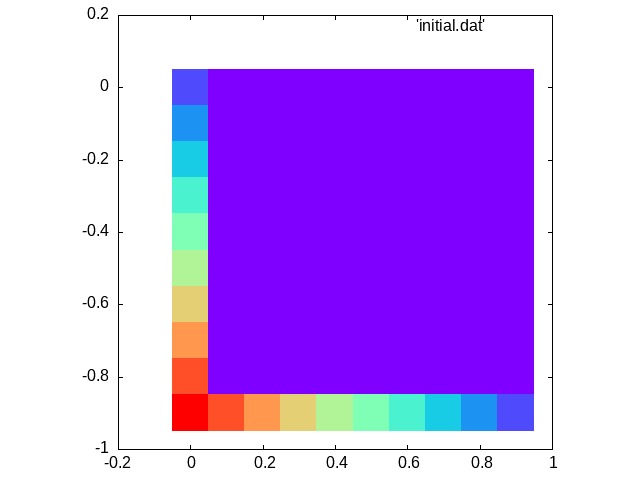
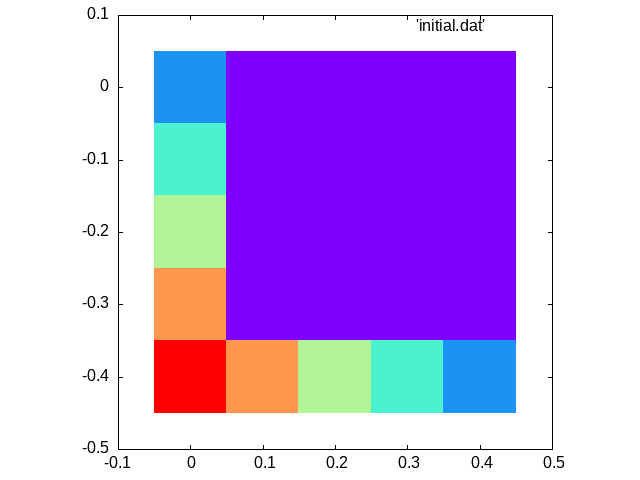
Rows transfer working

diff --git a/jacobi_exercise/mpi_code/src/main.c b/jacobi_exercise/mpi_code/src/main.c
@@ -12,8 +12,11 @@
 #define MASTER 0
 
 /*** function declarations ***/
+//Send and receive ghosts layers
+void ghost_layer_transfer(double * matrix, int irank, int n_proc_tot, int * dim_1_local, int dim_2_local);
+
 // evolve Jacobi
-void evolve( double * matrix, double *matrix_new, size_t dimension );
+void evolve( double * matrix, double *matrix_new, size_t dimension, int irank );
 
 // return the elapsed time
 double seconds( void );
@@ -23,7 +26,7 @@ double seconds( void );
 int main(int argc, char* argv[]){
 
   // timing variables
-  double t_start, t_end, increment;
+  double t_start, t_end;
 
   // indexes for loops
   size_t it;
@@ -145,7 +148,7 @@ t_end = seconds();
   print_matrix_distributed(matrix, irank, dim_1_local, dim_2_local,
     n_proc_tot, COMM, true);
 #endif
-  print_matrix_distributed_gnuplot(matrix, irank, dim_1_local, dim_2_local,
+  print_matrix_distributed_file(matrix, irank, dim_1_local, dim_2_local,
     displacement, n_proc_tot, COMM, "initial.dat");
 
   if (irank==MASTER) {
@@ -157,8 +160,8 @@ t_end = seconds();
   // start algorithm
   t_start = seconds();
   for( it = 0; it < iterations; ++it ){
-
-    evolve_mpi( matrix, matrix_new, dimension);
+    ghost_layer_transfer(matrix, irank, n_proc_tot, dim_1_local, dim_2_local);
+    evolve_mpi(matrix, matrix_new, dimension, irank);
 
     // swap the pointers
     tmp_matrix = matrix;
@@ -173,20 +176,71 @@ t_end = seconds();
     printf_reset();
   }
 
-  print_matrix_distributed_gnuplot(matrix, irank, dim_1_local, dim_2_local,
+#ifdef DEBUG
+  MPI_Barrier(COMM);
+  if (irank==MASTER) {
+    printf_yellow();
+    printf("\n");
+    printf("-------Evolution executed-------\n");
+    printf_reset();
+  }
+  print_matrix_distributed(matrix, irank, dim_1_local, dim_2_local,
+    n_proc_tot, COMM, true);
+#endif
+  print_matrix_distributed_file(matrix, irank, dim_1_local, dim_2_local,
     displacement, n_proc_tot, COMM, "solution.dat");
 
-  free( matrix );
-  free( matrix_new );
+  free(matrix);
+  free(matrix_new);
+
+  free(n_rows_local);
+  free(dim_1_local);
+  free(displacement);
 
   MPI_Finalize();
 
   return 0;
 }
 
-
-void evolve_mpi( double * matrix, double *matrix_new, size_t dimension ){
+void ghost_layer_transfer(double * matrix, int irank, int n_proc_tot, int * dim_1_local, int dim_2_local) {
   
+  int next = irank+1;
+  int previous = irank-1;
+
+  if (irank==0) {
+    /*Send the last actual row to next and receive
+    from next in its bottom ghost layer*/
+    MPI_Sendrecv(matrix+(dim_1_local[irank]-2)*dim_2_local, dim_2_local,
+     MPI_DOUBLE, next, 0,
+     matrix+(dim_1_local[irank]-1)*dim_2_local, dim_2_local,
+     MPI_DOUBLE, next, 0, COMM, MPI_STATUS_IGNORE);
+  } else if (irank==n_proc_tot-1) {
+    /*Send the first actual row to previous and receive
+    from previous in its top ghost layer*/
+    MPI_Sendrecv(matrix+dim_2_local, dim_2_local,
+     MPI_DOUBLE, previous, 0,
+     matrix, dim_2_local,
+     MPI_DOUBLE, previous, 0, COMM, MPI_STATUS_IGNORE);
+  } else {
+    /*Send the first actual row to previous and receive
+    from previous in its top ghost layer*/
+    MPI_Sendrecv(matrix+dim_2_local, dim_2_local,
+     MPI_DOUBLE, previous, 0,
+     matrix, dim_2_local,
+     MPI_DOUBLE, previous, 0, COMM, MPI_STATUS_IGNORE);
+    /*Send the last actual row to next and receive
+    from next in its bottom ghost layer*/
+    MPI_Sendrecv(matrix+(dim_1_local[irank]-2)*dim_2_local, dim_2_local,
+     MPI_DOUBLE, next, 0,
+     matrix+(dim_1_local[irank]-1)*dim_2_local, dim_2_local,
+     MPI_DOUBLE, next, 0, COMM, MPI_STATUS_IGNORE);
+  }
+
+}
+
+
+void evolve_mpi( double * matrix, double *matrix_new, size_t dimension, int irank){
+
   size_t i , j;
 
   //This will be a row dominant program.

diff --git a/jacobi_exercise/mpi_code/src/headers/linearized_matrix_utility.h b/jacobi_exercise/mpi_code/src/headers/linearized_matrix_utility.h
@@ -15,7 +15,7 @@ void print_matrix(double * A, int dim_1, int dim_2, bool ghost);
 void print_matrix_distributed (double * A, int irank,
  int* dim_1 , int dim_2, int n_proc_tot, MPI_Comm COMM, bool divisor);
 
-void print_matrix_distributed_gnuplot (double * A, int irank,
+void print_matrix_distributed_file (double * A, int irank,
  int* dim_1 , int dim_2, int* displacement, int n_proc_tot, MPI_Comm COMM, char filename[]);
 
 void create_identity_matrix_distributed (double * A, int irank,

diff --git a/jacobi_exercise/mpi_code/src/linearized_matrix_utility.c b/jacobi_exercise/mpi_code/src/linearized_matrix_utility.c
@@ -106,7 +106,7 @@ void print_matrix_distributed (double * A, int irank,
  * @param n_proc_tot number of total processors
  * @param COMM MPI communicator
 */
-void print_matrix_distributed_gnuplot (double * A, int irank,
+void print_matrix_distributed_file (double * A, int irank,
  int* dim_1 , int dim_2, int* displacement, int n_proc_tot, MPI_Comm COMM, char filename[]) {
   
   FILE *file;
